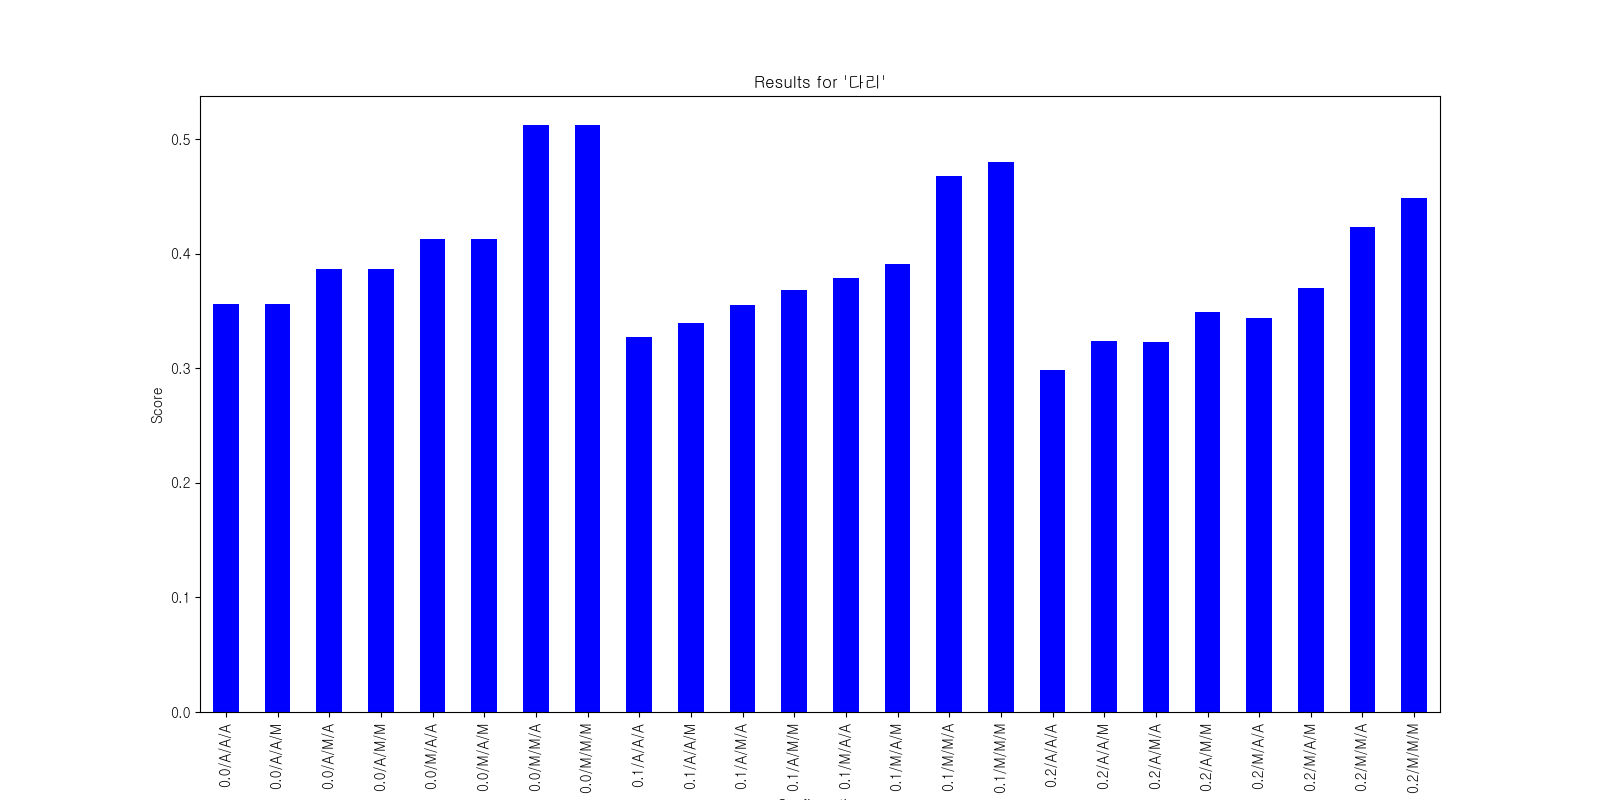
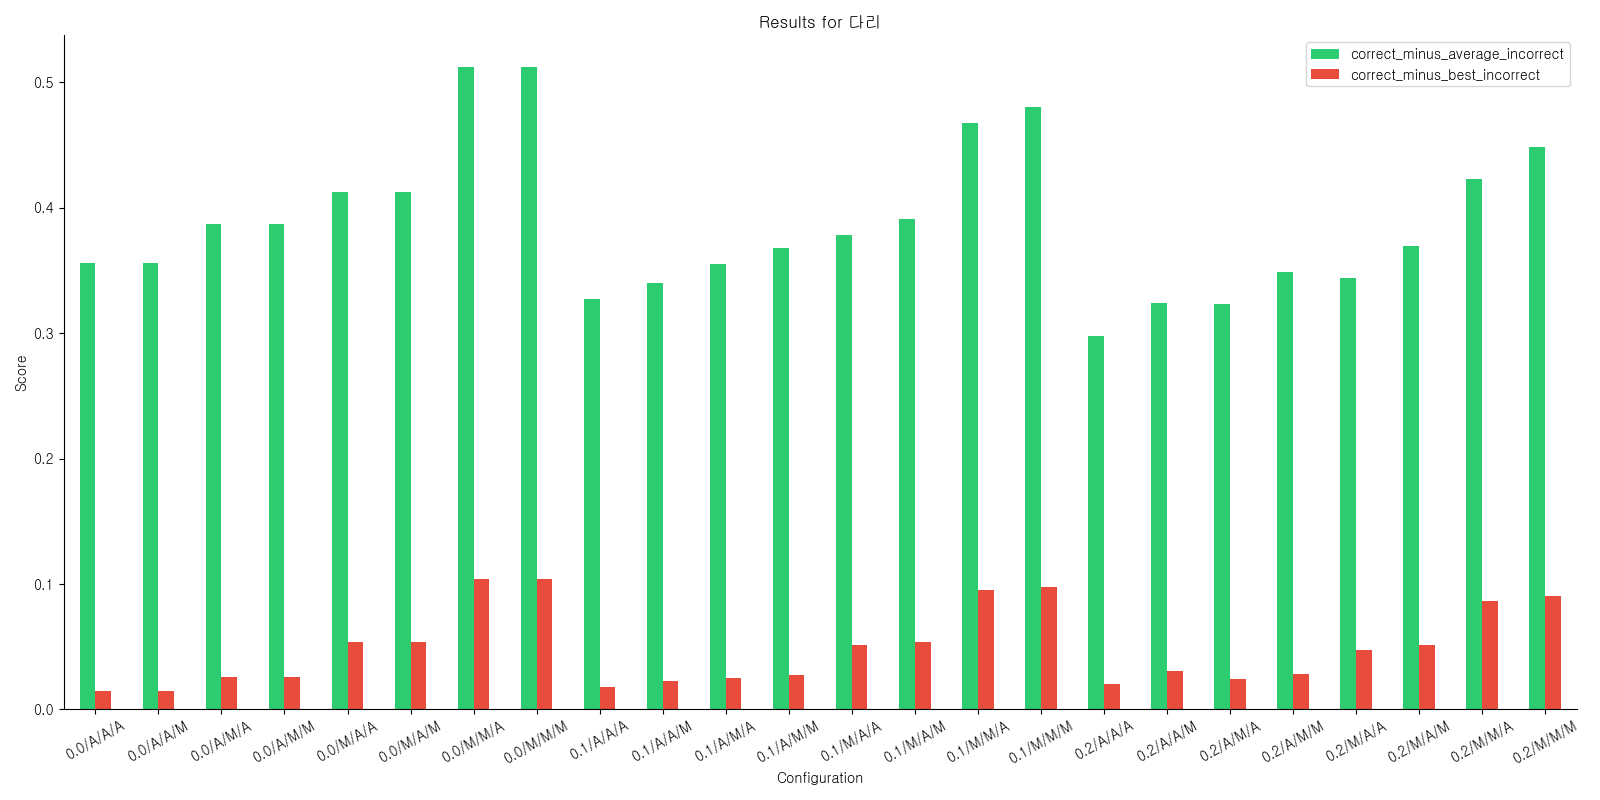
Added more tests

diff --git a/run_single_test.py b/run_single_test.py
@@ -1,4 +1,6 @@
 from typing import List
+from headword_ranker import rank_headwords
+from similarity_calculator import SimilarityCalculator
 from test_types import (
     TestCaseForMatchingKnownUsages,
     UnknownUsageExample,
@@ -62,14 +64,21 @@ def do_matching_usage_algorithm(
 ):
     from match_usage_sense_disambiguator import MatchingUsageHeadwordDisambiguator
 
-    sd = MatchingUsageHeadwordDisambiguator(*disambiguator_args)
+    sd = MatchingUsageHeadwordDisambiguator(disambiguator_args[0])
 
     for unknown_usage_example in test_case_data.unknown_usage_examples:
 
-        res = sd.get_ranking_with_similarities(
+        embeddings = sd.get_all_embeddings(
             test_case_data.lemma,
             unknown_usage_example.usage,
             test_case_data.known_headwords,
+        )
+
+        headword_rankings = rank_headwords(
+            len(test_case_data.known_headwords),
+            embeddings,
+            disambiguator_args[1],
+            SimilarityCalculator(*disambiguator_args[2:]),
         )
 
         print_test_result_to_stream(
@@ -78,7 +87,7 @@ def do_matching_usage_algorithm(
                 headword["known_senses"][0]["definition"]
                 for headword in test_case_data.known_headwords
             ],
-            res,
+            headword_rankings,
             sys.stdout,
         )
 
@@ -114,8 +123,6 @@ if __name__ == "__main__":
         float(args[3]),
         *[string_to_flattening_strategy(string) for string in args[4:7]],
     ]
-
-    print(disambiguator_args)
 
     filepath = args[2]
 

diff --git a/write_result_files.py b/write_result_files.py
@@ -35,7 +35,6 @@ def write_all_lemma_files(df: pd.DataFrame, path_to_dir: str):
             [
                 "correct_minus_average_incorrect",
                 "correct_minus_best_incorrect",
-                "proportion_of_times_correct_top",
             ]
         ].mean()
 
@@ -64,7 +63,7 @@ def do_plot(df, title: str):
 
 def combine_config_columns(df: pd.DataFrame):
 
-    new_df = df
+    new_df = df.copy()
 
     def format_config(column_config):
         return (
@@ -87,7 +86,7 @@ def combine_config_columns(df: pd.DataFrame):
 
 
 def add_correct_statistics(df: pd.DataFrame) -> pd.DataFrame:
-    new_df = df
+    new_df = df.copy()
 
     new_df["correct_minus_average_incorrect"] = df.groupby("combined_config")[
         "correct_minus_average_incorrect"

diff --git a/run_all_tests.py b/run_all_tests.py
@@ -89,7 +89,6 @@ def run_all_examples_with_all_configs(
 
 
 def get_all_files_starting_in_dir(dir: str):
-    return ["inputs/kor/ignore/사자.json"]
     all_files = []
 
     for file_or_dir in os.listdir(dir):
